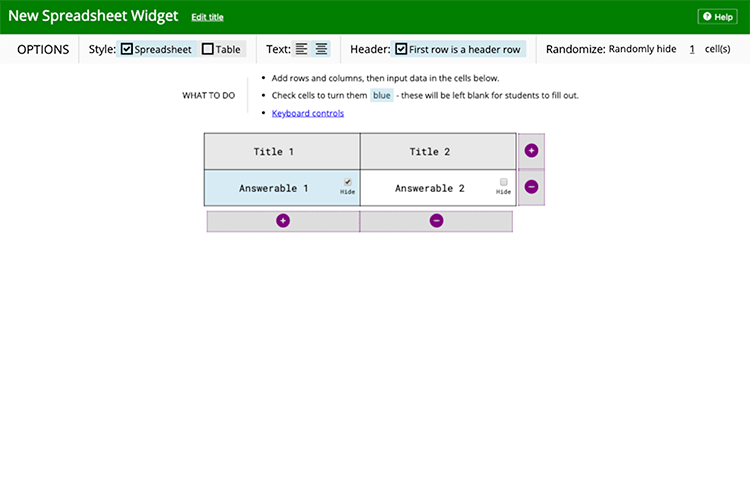
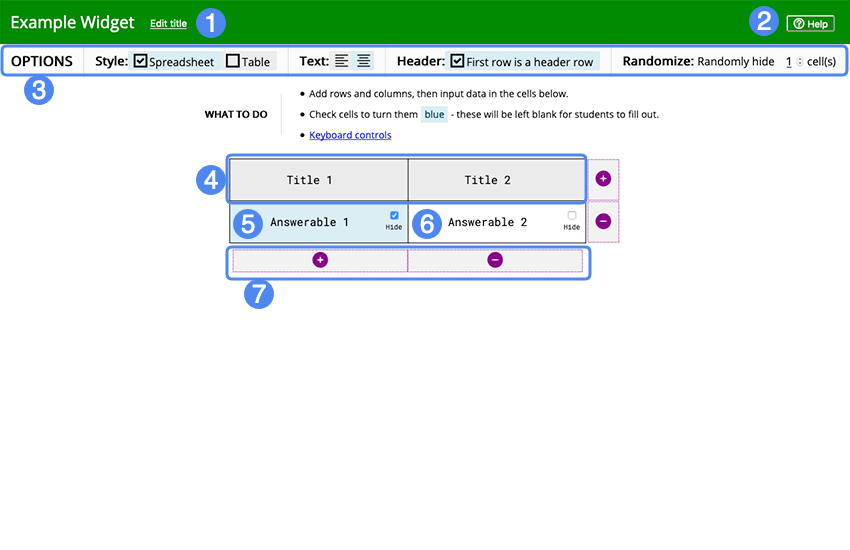
Update guides with annotated screenshots

Changed region(s): [[0.0, 0.0, 1.0, 0.57]]

diff --git a/src/_guides/player.md b/src/_guides/player.md
@@ -2,11 +2,11 @@
 
 Students must fill in the blanks on a spreadsheet. The blanks can be either randomized or fixed.
 
-![player screen](assets/player.png)
+![Example Player Screen](assets/player.png)
 
 1. Widget Title
 2. Help Button
-3. Filled in Answer
+3. Bank Cell
 4. Answer Counter
 5. Submit Button
 
@@ -16,10 +16,16 @@ Students must fill in the blanks on a spreadsheet. The blanks can be either rand
 
 Blanks that still need to be answered will be highlighted in blue and will have a question mark. Blanks that have been filled in will be highlighted in yellow. There is a running tally of how many blanks have been filled in out of all of the blanks at the bottom.
 
+#### Blank Cell
+![Blank Cell Example](assets/blank.png)
+
+#### Filled Cell
+![Filled Cell Example](assets/filled.png)
+
 ### Question and description
 
 There may be an accompanying question, description, or instructions that pop up before you are able to use the spreadsheet. If you want to read it again, click the **View Question** text.
 
 ### Submitting
 
-When you have filled in all then blanks that you want to, click on the **Submit** button. You will be scored based on how many blanks were filled with the correct information, spelling, capitalization, and spaces do matter. 
+When you have filled in all then blanks that you want to, click on the **Submit** button. You will be scored based on how many blanks were filled with the correct information, spelling, capitalization, and spaces do matter. If all the blanks are filled in, the submit button will turn purple. If you want, you can still submit before all the blanks are filled in.

diff --git a/src/_guides/creator.md b/src/_guides/creator.md
@@ -2,7 +2,15 @@
 
 Students must fill in the blanks on a spreadsheet. The blanks can be either randomized or fixed.
 
-![creator screen](assets/creator.png)
+![Example Creator Screen](assets/creator.png)
+
+1. Editable Widget Title
+2. Help Button
+3. Options Bar
+4. Title Cells
+5. Hidden Cell
+6. Shown Cell
+7. Buttons to expand/shrink the table
 
 ## Details
 
